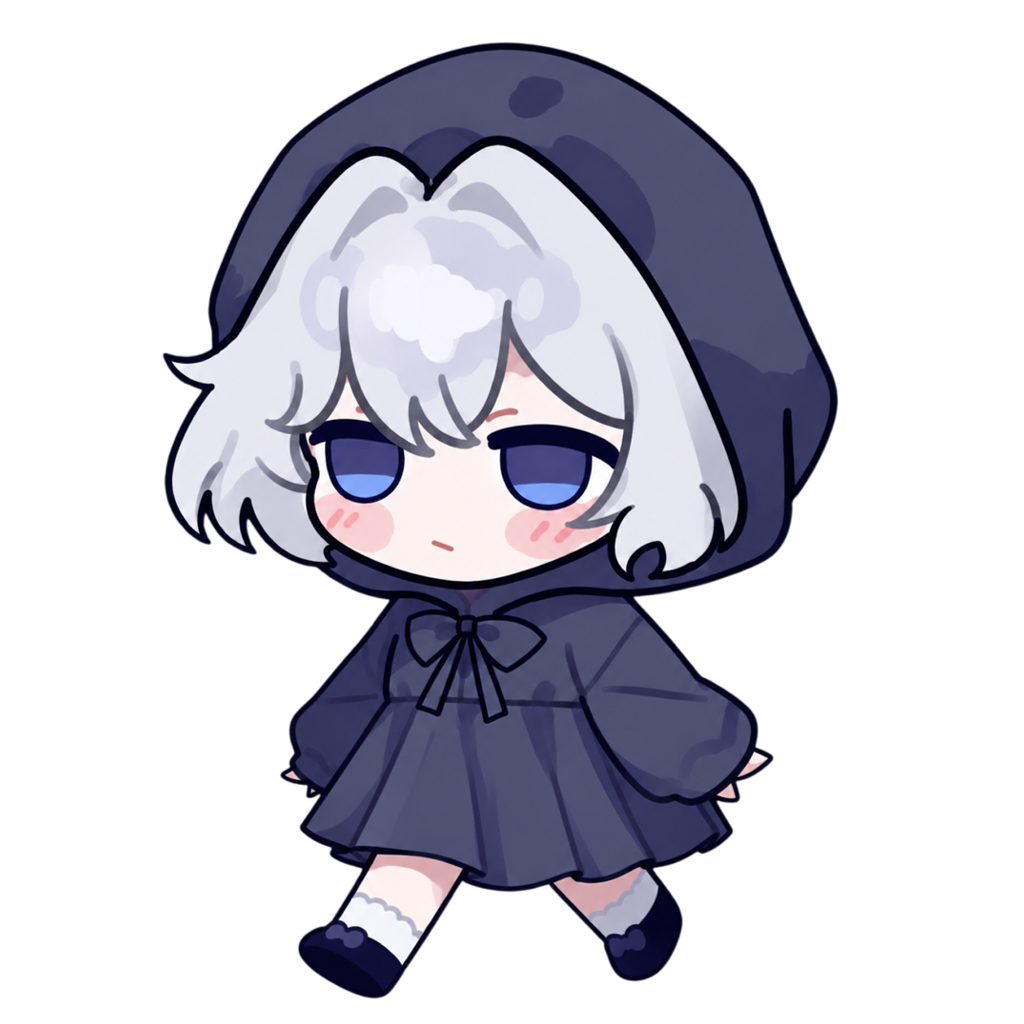
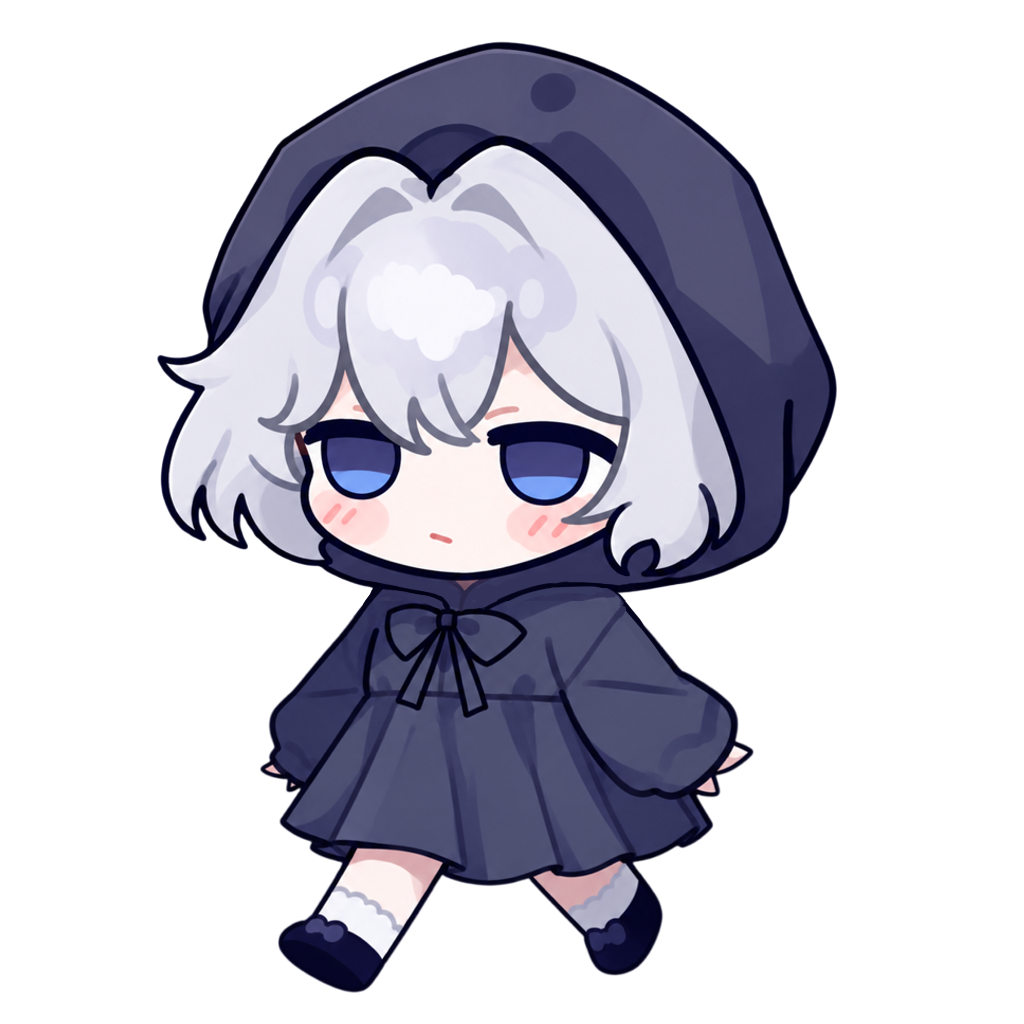
Update Nmoo walking frames to revised artwork

diff --git a/docs/companion-behavior-design.md b/docs/companion-behavior-design.md
@@ -213,7 +213,7 @@ Qt 없는 `BehaviorManager`가 발신자별 태그를 합쳐 조건을 만족하
 화면의 말풍선 부착점과 포인터 접촉 좌표도 같은 반전을 따른다. 프리뷰 타임라인은 원본 클립을 보여준다.
 추가 JSON 필드는 필요 없고 기존 팩도 그대로 사용한다. 걷기 바인딩이 없는 팩은 자동 이동하지 않는다.
 
-제공된 Nmoo 0.3 팩의 walk는 PNG 1→2→3→2, 각 140ms 반복이다.
+제공된 Nmoo 0.3.1 팩의 walk는 PNG 1→2→3→2, 각 140ms 반복이다.
 Idle·Walk 이미지를 교체했으며 `calling`과 `file.offer`는 종을 든 단일 notice 프레임에 연결한다.
 눈 깜빡임은 기존 standing 클립을 유지한다. 별도 내장 키 `builtin-nmoo`로 선택하며 가져온 이전 팩과 개인 설정은 덮어쓰지 않는다.
 컴패니언 관리의 '쉬는 동안 가끔 걷기'는 `character/autonomousWalk`에 저장한다(기본 true).
